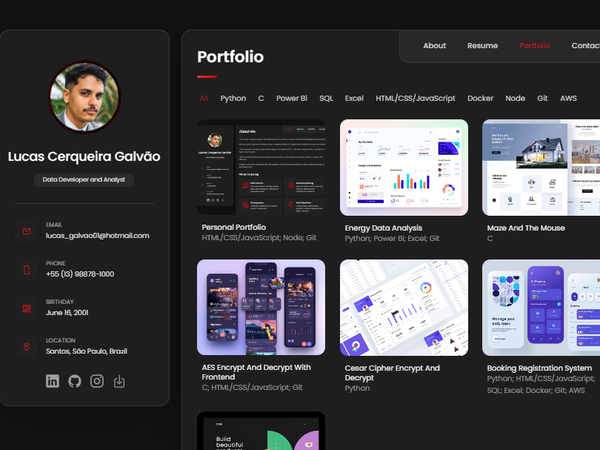
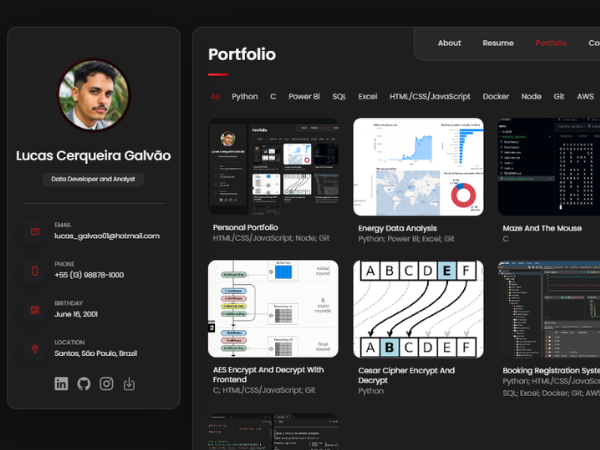
novas imagens

diff --git a/index.html b/index.html
@@ -1136,7 +1136,7 @@
                     <ion-icon name="eye-outline"></ion-icon>
                   </div>
 
-                  <img src="./assets/images/project-3.jpg" alt="fundo" loading="lazy">
+                  <img src="./assets/images/project-3.gif" alt="fundo" loading="lazy">
                 </figure>
 
                 <h3 class="project-title">maze and the mouse</h3>
